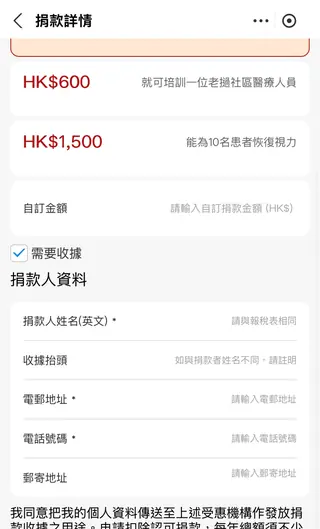
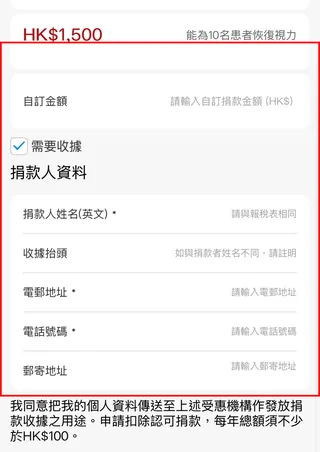
Alipay receipt crops: put Denise's red boxes back
Her annotations in the deck are PowerPoint AUTO_SHAPEs over the pictures, so pulling
ppt/media/*.jpeg gave clean screens with no rings. Each picture's own FF0000 box is
now composited at the picture's pixel scale, and the frame crops around that box so
the ring is the subject.

Also: step 3 masks the amount and the transaction reference inside the box (a
published reference is the key a receipt claim matches on, and HK$10 contradicts a
page that states receipts need HK$100); step 4 opens on the boxed button.

Gates: poc 99/99, sweep clean, pay 649/690 zh and 739/800 en.

diff --git a/embed/index.html b/embed/index.html
@@ -811,14 +811,14 @@ body[data-part] .wrap{min-height:100vh;padding-block:clamp(14px,3vw,22px)}
             <ol class="hsteps">
               <li>
                 <span class="n" data-i18n="s3.rcpt.o1.s1t">Step 1</span>
-                <img loading="eager" src="../assets/help/alipay-receipt-o1-step-1.webp" width="320" height="529"
+                <img loading="eager" src="../assets/help/alipay-receipt-o1-step-1.webp" width="320" height="352"
                      alt="AlipayHK donation detail screen: the charity, the suggested amounts and, at the foot, the unticked 「需要收據」 box" data-i18n-alt="s3.rcpt.o1.alt1">
                 <p data-i18n="s3.rcpt.o1.s1">Tick 「需要收據」 (need a receipt) under the amount.</p>
               </li>
 
               <li>
                 <span class="n" data-i18n="s3.rcpt.o1.s2t">Step 2</span>
-                <img loading="lazy" src="../assets/help/alipay-receipt-o1-step-2.webp" width="320" height="529"
+                <img loading="lazy" src="../assets/help/alipay-receipt-o1-step-2.webp" width="320" height="452"
                      alt="The same screen with 「需要收據」 ticked and the 「捐款人資料」 form open below it: name in English, email, phone and address" data-i18n-alt="s3.rcpt.o1.alt2">
                 <p data-i18n="s3.rcpt.o1.s2">The donor form appears — name in English, email, phone. Fill it in, then confirm the gift.</p>
               </li>
@@ -832,28 +832,28 @@ body[data-part] .wrap{min-height:100vh;padding-block:clamp(14px,3vw,22px)}
             <ol class="hsteps">
               <li>
                 <span class="n" data-i18n="s3.rcpt.o2.s1t">Step 1</span>
-                <img loading="lazy" src="../assets/help/alipay-receipt-o2-step-1.webp" width="320" height="529"
+                <img loading="lazy" src="../assets/help/alipay-receipt-o2-step-1.webp" width="320" height="370"
                      alt="AlipayHK home screen with 慈善捐款 in the shortcut grid, fourth in the first row" data-i18n-alt="s3.rcpt.o2.alt1">
                 <p data-i18n="s3.rcpt.o2.s1">Open AlipayHK and go to 慈善捐款.</p>
               </li>
 
               <li>
                 <span class="n" data-i18n="s3.rcpt.o2.s2t">Step 2</span>
-                <img loading="lazy" src="../assets/help/alipay-receipt-o2-step-2.webp" width="320" height="529"
+                <img loading="lazy" src="../assets/help/alipay-receipt-o2-step-2.webp" width="320" height="239"
                      alt="The 慈善捐款 page with its menu of donation options, including the 捐款記錄 row" data-i18n-alt="s3.rcpt.o2.alt2">
                 <p data-i18n="s3.rcpt.o2.s2">Tap 我的捐款 at the bottom, then 捐款記錄.</p>
               </li>
 
               <li>
                 <span class="n" data-i18n="s3.rcpt.o2.s3t">Step 3</span>
-                <img loading="lazy" src="../assets/help/alipay-receipt-o2-step-3.webp" width="320" height="529"
+                <img loading="lazy" src="../assets/help/alipay-receipt-o2-step-3.webp" width="320" height="207"
                      alt="The 交易記錄 list showing one gift to 護瞳行動 with its date and amount" data-i18n-alt="s3.rcpt.o2.alt3">
                 <p data-i18n="s3.rcpt.o2.s3">Find the gift by the charity and the date.</p>
               </li>
 
               <li>
                 <span class="n" data-i18n="s3.rcpt.o2.s4t">Step 4</span>
-                <img loading="lazy" src="../assets/help/alipay-receipt-o2-step-4.webp" width="320" height="84"
+                <img loading="lazy" src="../assets/help/alipay-receipt-o2-step-4.webp" width="320" height="88"
                      alt="The 捐款結果 screen with the blue 申請收據 button at the foot, above the return link" data-i18n-alt="s3.rcpt.o2.alt4">
                 <p data-i18n="s3.rcpt.o2.s4">Tap 申請收據 and submit your details.</p>
               </li>
